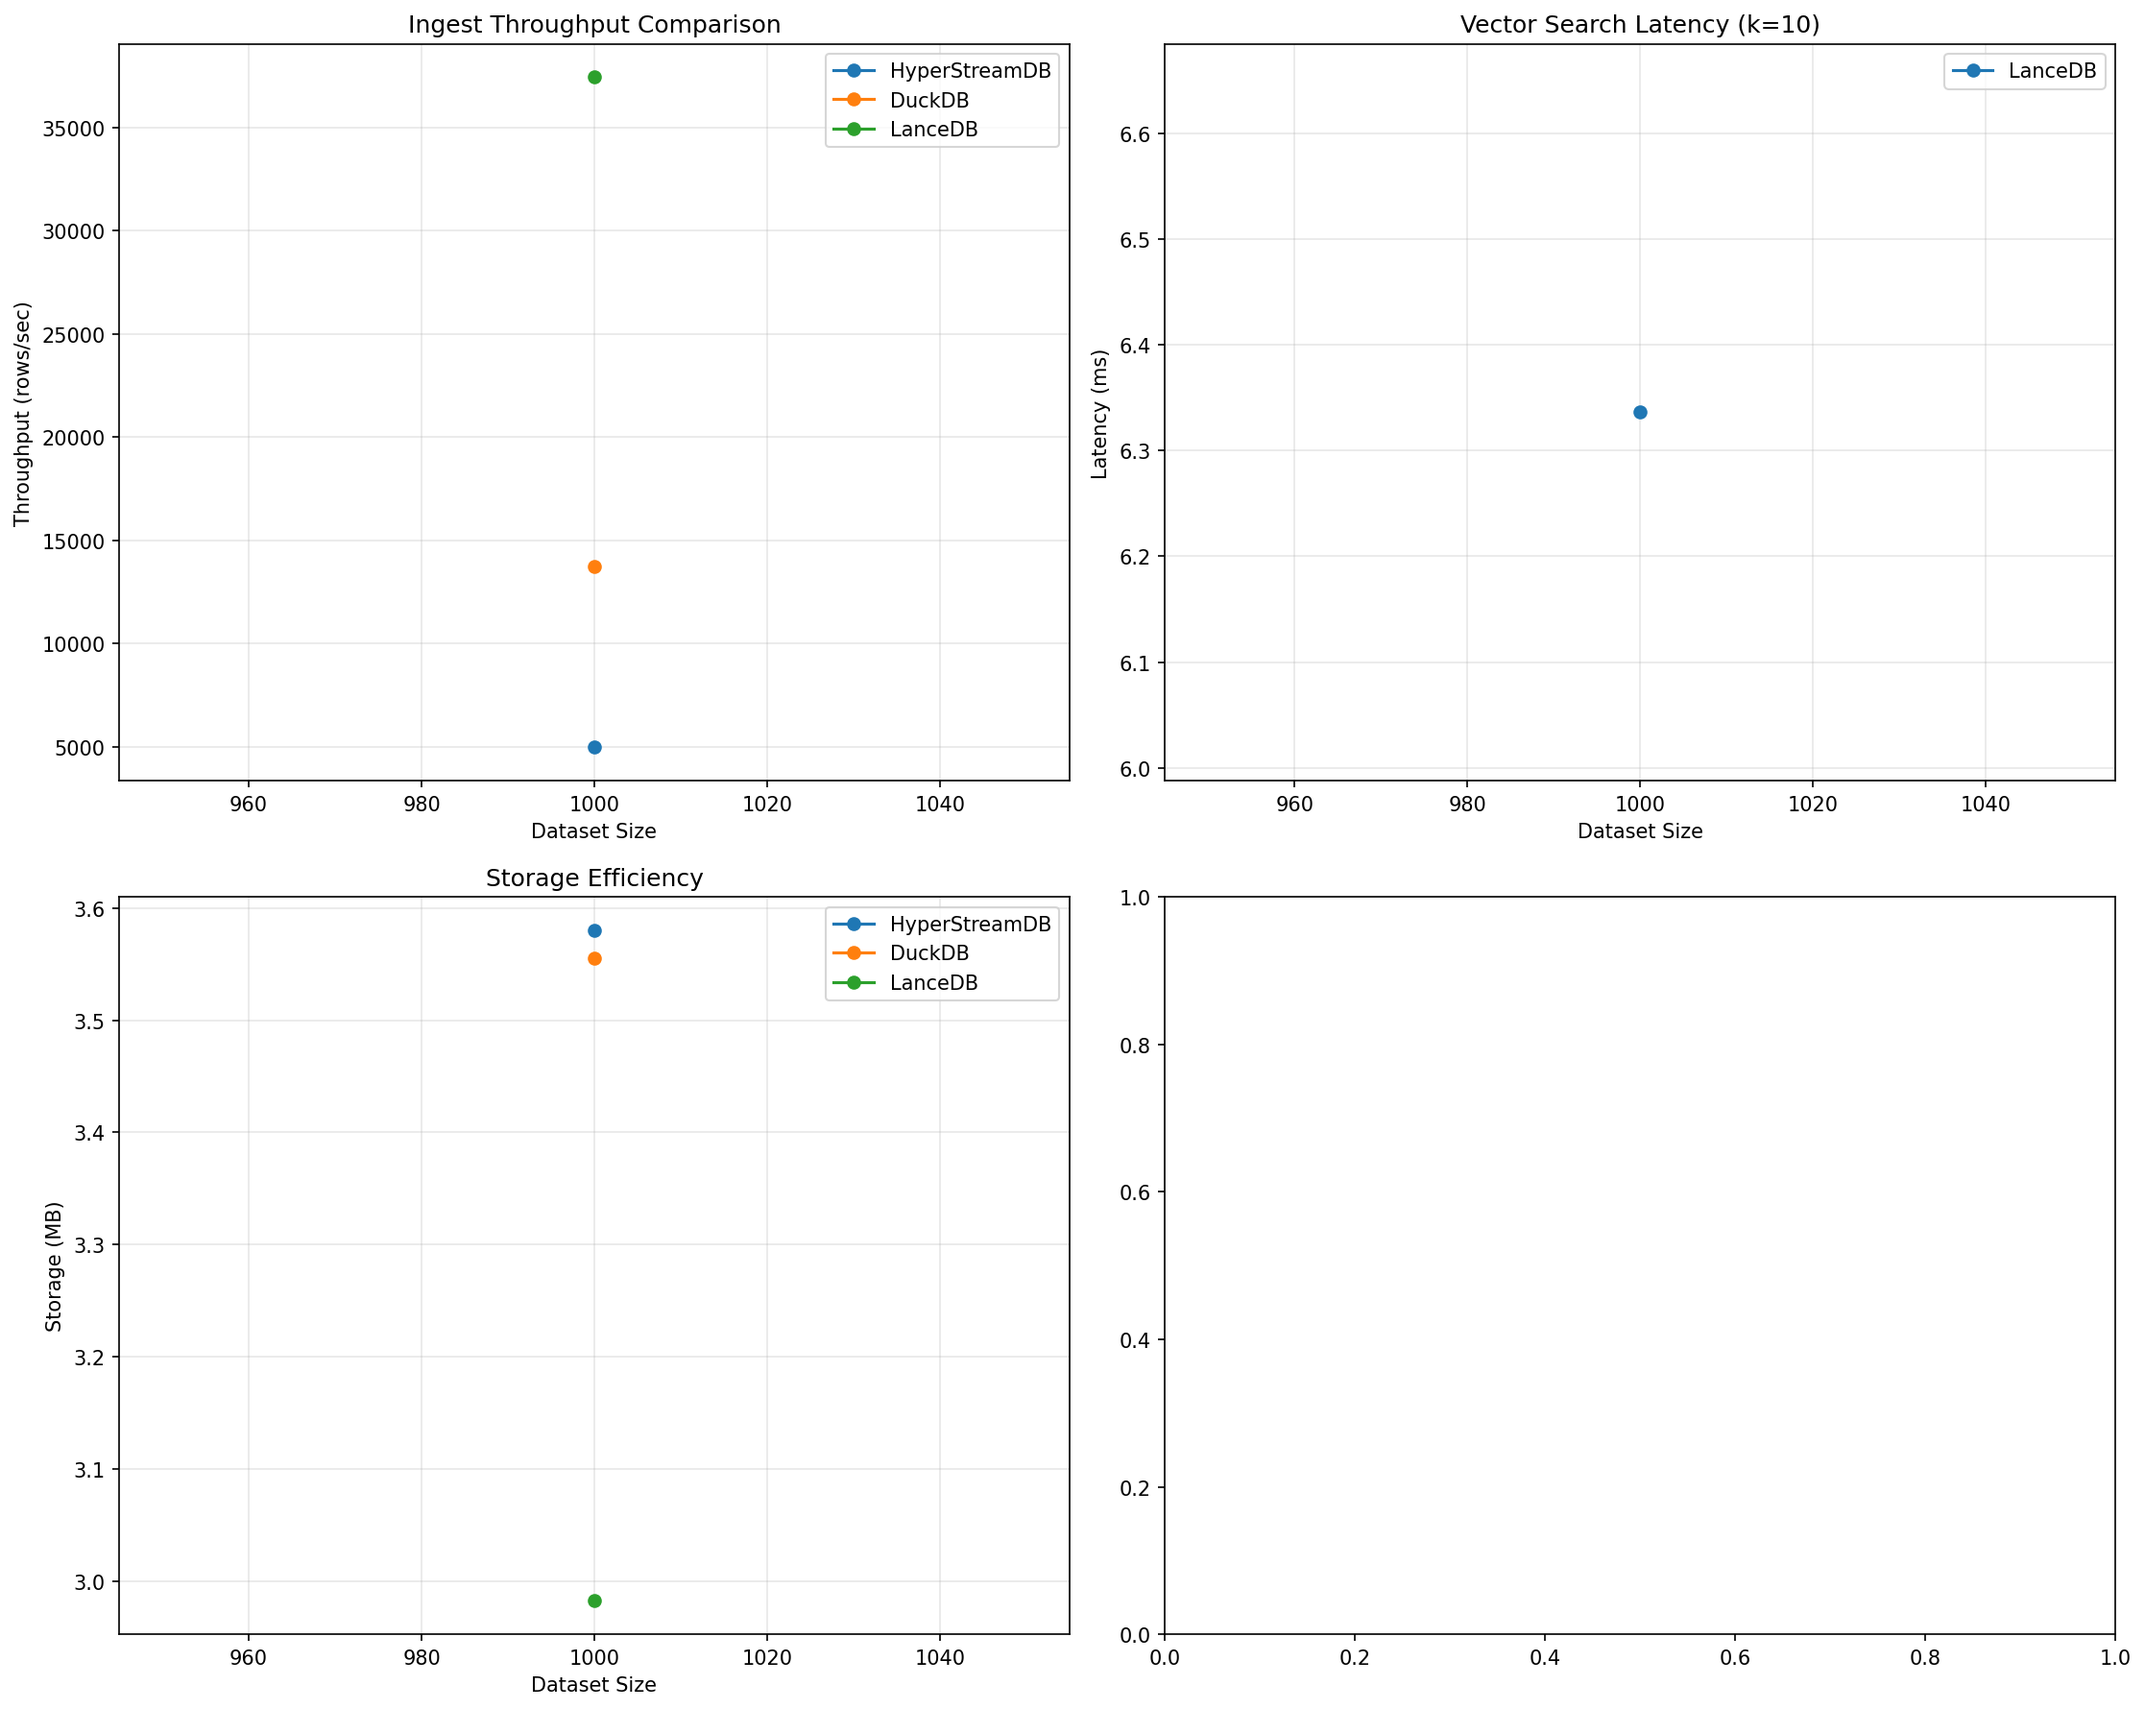
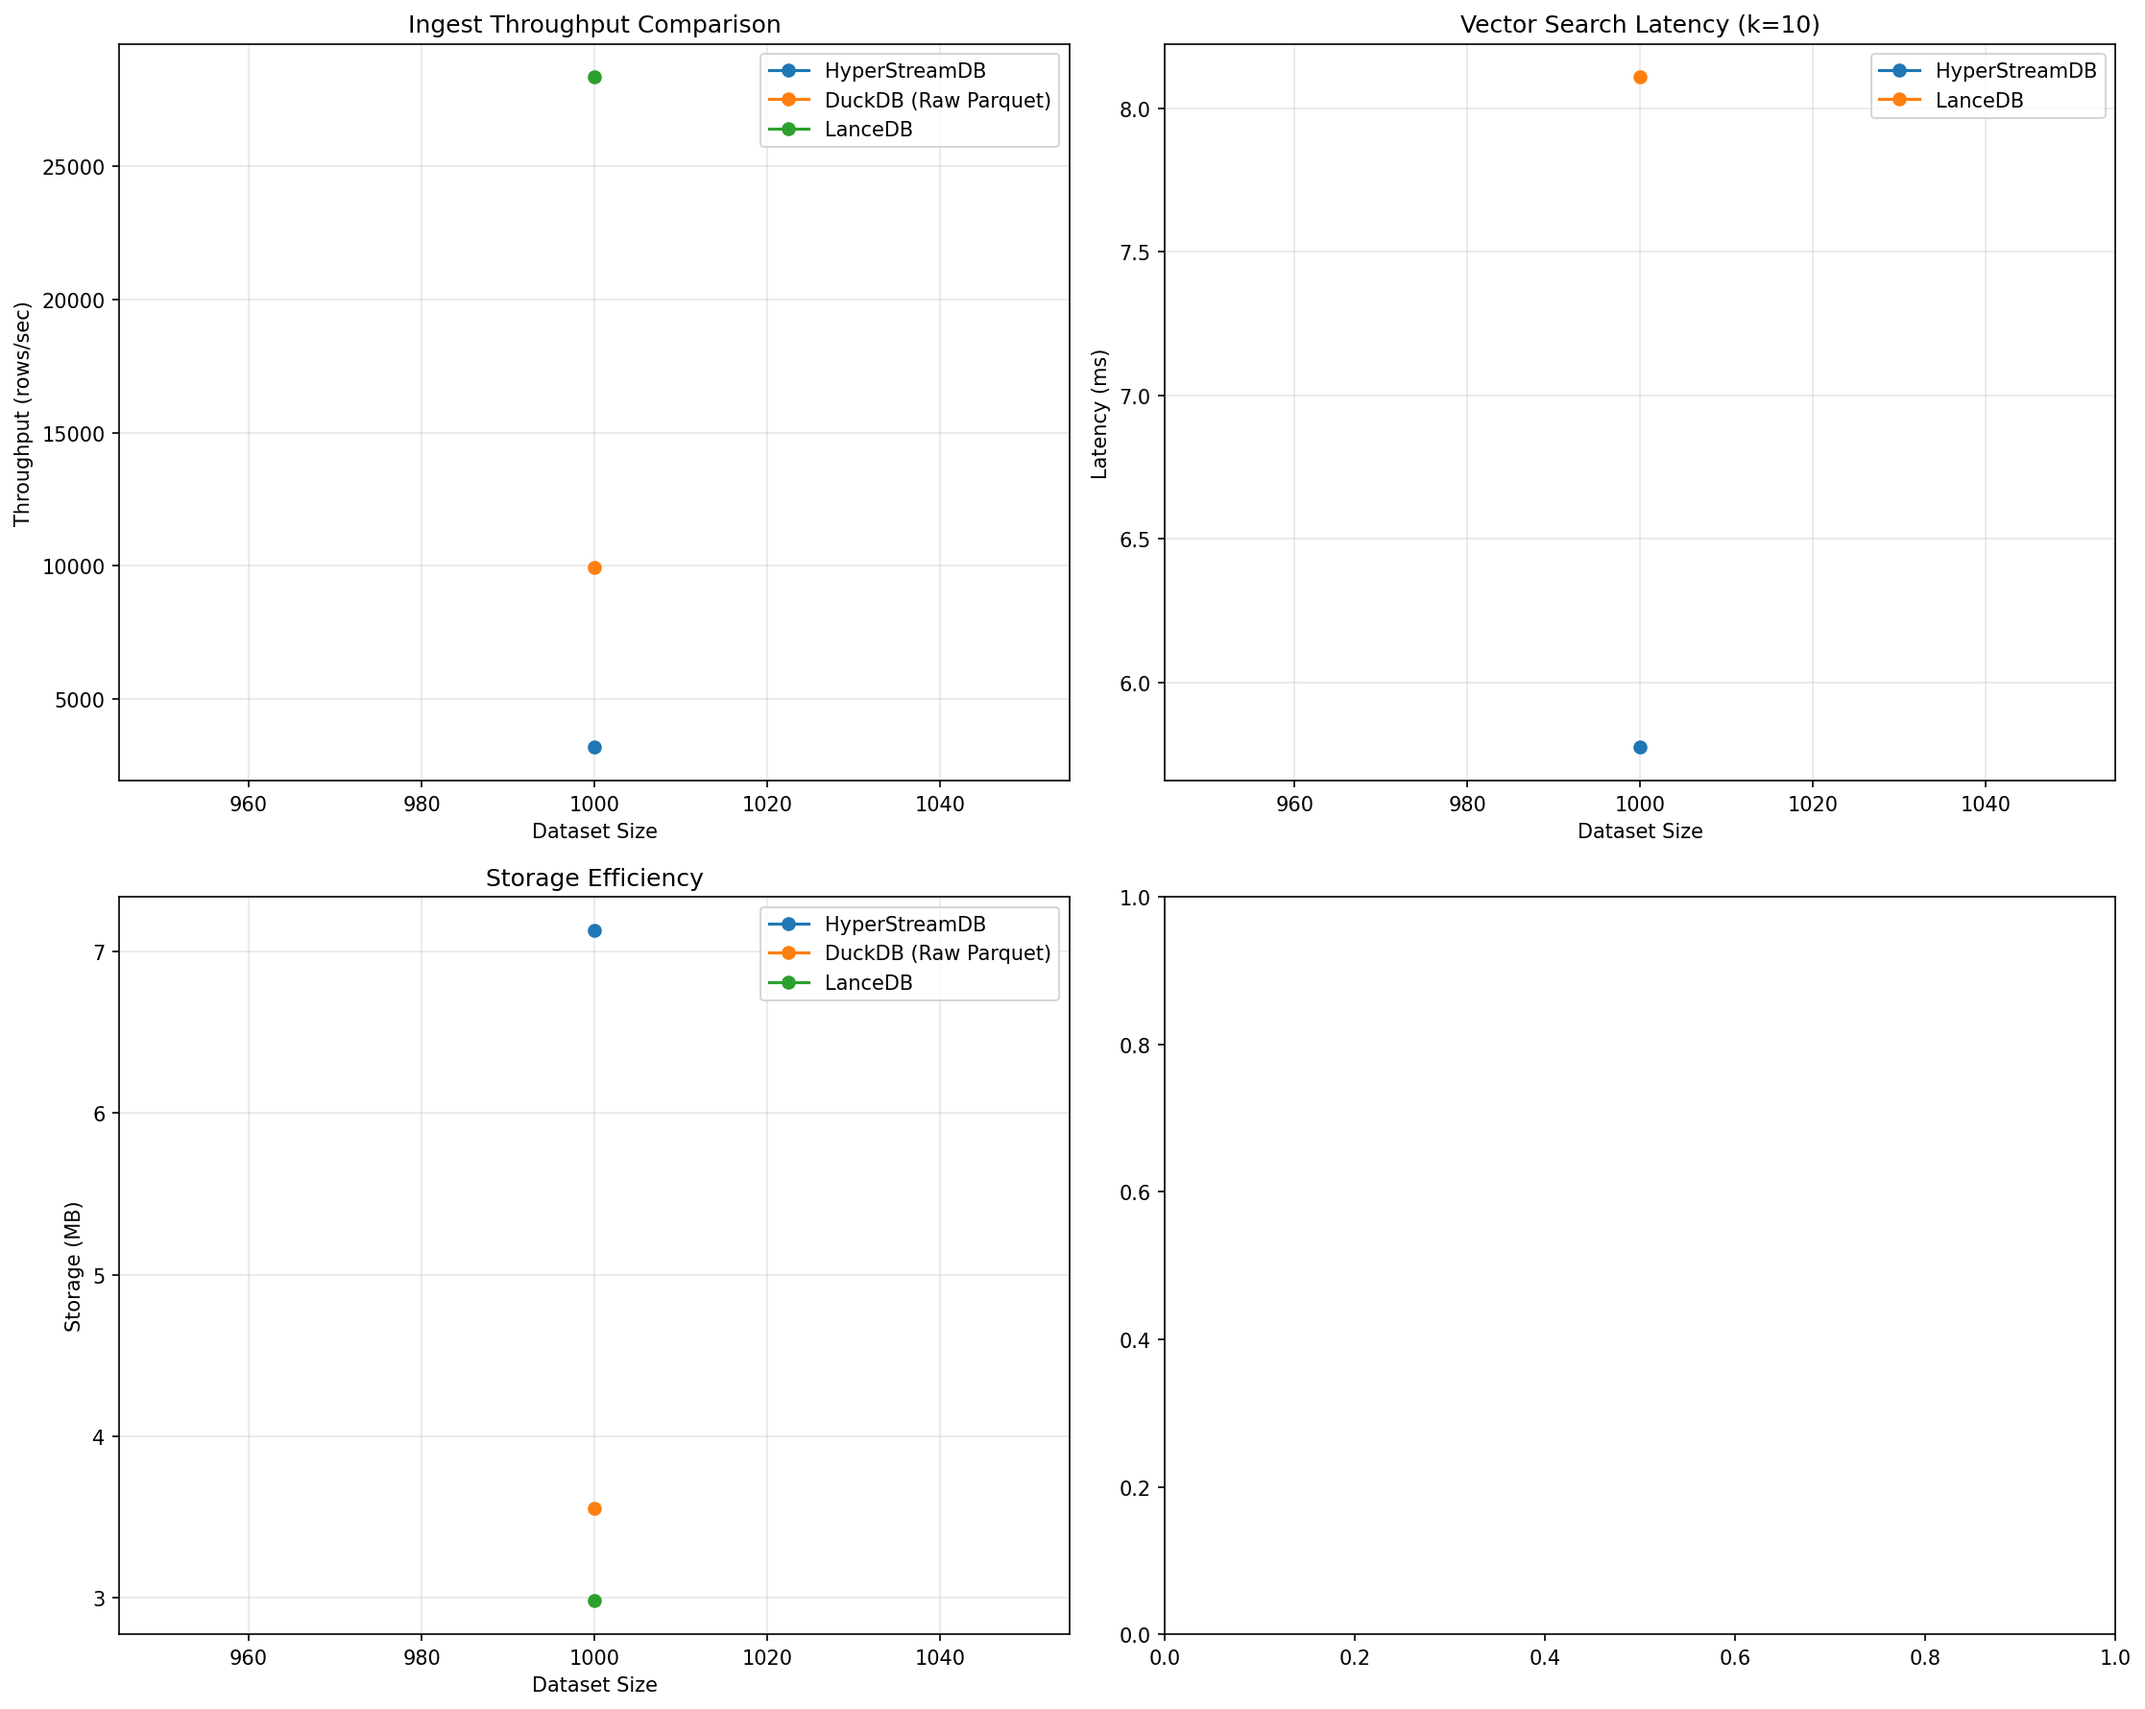
Fix: Register vector operators with DataFusion for hybrid queries
- Register dist_l2, dist_cosine, dist_ip, etc. UDFs in all SessionContext creations
- Make SessionContext mutable to allow register_vector_operators() calls
- Hybrid queries now properly execute with custom distance functions
- Fixes 'Invalid function dist_l2' error in hybrid query planning

diff --git a/src/core/planner.rs b/src/core/planner.rs
@@ -47,7 +47,8 @@ impl FilterExpr {
         }).collect();
         let normalized_schema = Arc::new(arrow::datatypes::Schema::new(normalized_fields));
 
-        let ctx = SessionContext::new();
+        let mut ctx = SessionContext::new();
+        crate::core::sql::vector_operators::register_vector_operators(&mut ctx);
         let table = datafusion::datasource::empty::EmptyTable::new(normalized_schema);
         ctx.register_table(TableReference::bare("t"), Arc::new(table))?;
         let df = ctx.sql(&sql).await?;
@@ -466,7 +467,8 @@ impl QueryPlanner {
         use datafusion::physical_expr::create_physical_expr;
         use datafusion::prelude::SessionContext;
 
-        let ctx = SessionContext::new();
+        let mut ctx = SessionContext::new();
+        crate::core::sql::vector_operators::register_vector_operators(&mut ctx);
         let state = ctx.state();
         
         // Type Coercion: DataFusion sometimes struggles with LargeUtf8 vs Utf8 in direct physical expr evaluation.

diff --git a/src/python_binding.rs b/src/python_binding.rs
@@ -1029,7 +1029,8 @@ impl PyTable {
         
         let batch_result: Result<(Vec<RecordBatch>, arrow::datatypes::SchemaRef), String> = rt.block_on(async {
             use datafusion::prelude::SessionContext;
-            let ctx = SessionContext::new();
+            let mut ctx = SessionContext::new();
+            crate::core::sql::vector_operators::register_vector_operators(&mut ctx);
             
             // Register table as 't' (short alias, safe from keywords)
             let provider = Arc::new(crate::core::sql::HyperStreamTableProvider::new(Arc::new(self.table.clone())));

diff --git a/src/core/table.rs b/src/core/table.rs
@@ -1495,7 +1495,8 @@ impl Table {
         use datafusion::prelude::SessionContext;
         use crate::core::sql::HyperStreamTableProvider;
 
-        let ctx = SessionContext::new();
+        let mut ctx = SessionContext::new();
+        crate::core::sql::vector_operators::register_vector_operators(&mut ctx);
         let provider = Arc::new(HyperStreamTableProvider::new(Arc::new(self.clone())));
         ctx.register_table("t", provider)?;
         let df = ctx.sql(query).await?;

diff --git a/benchmarks/competitive/benchmark_suite.py b/benchmarks/competitive/benchmark_suite.py
@@ -256,7 +256,7 @@ class CompetitiveBenchmark:
                 start = time.time()
                 results = table.sql(f"""
                     SELECT id, category, price, dist_l2(embedding, {query_vector.tolist()}) as distance
-                    FROM table
+                    FROM t
                     WHERE category = 'A' AND price > 100
                     ORDER BY distance
                     LIMIT {k}
